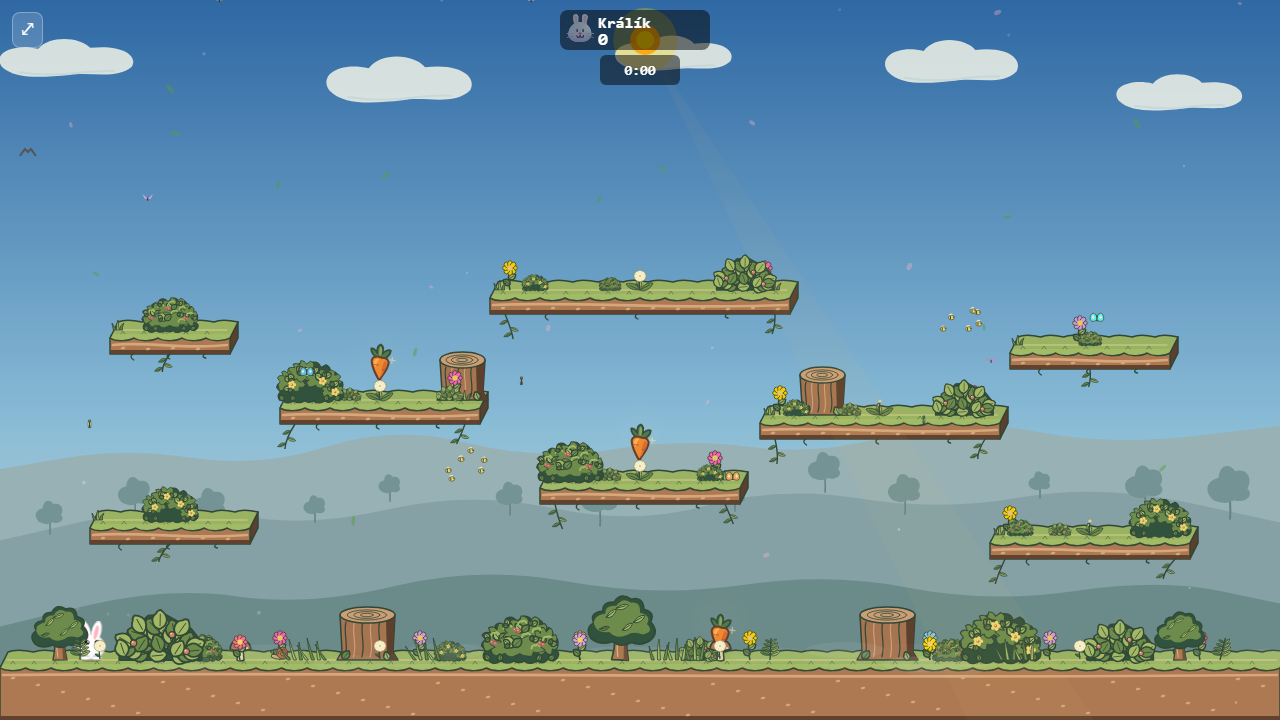
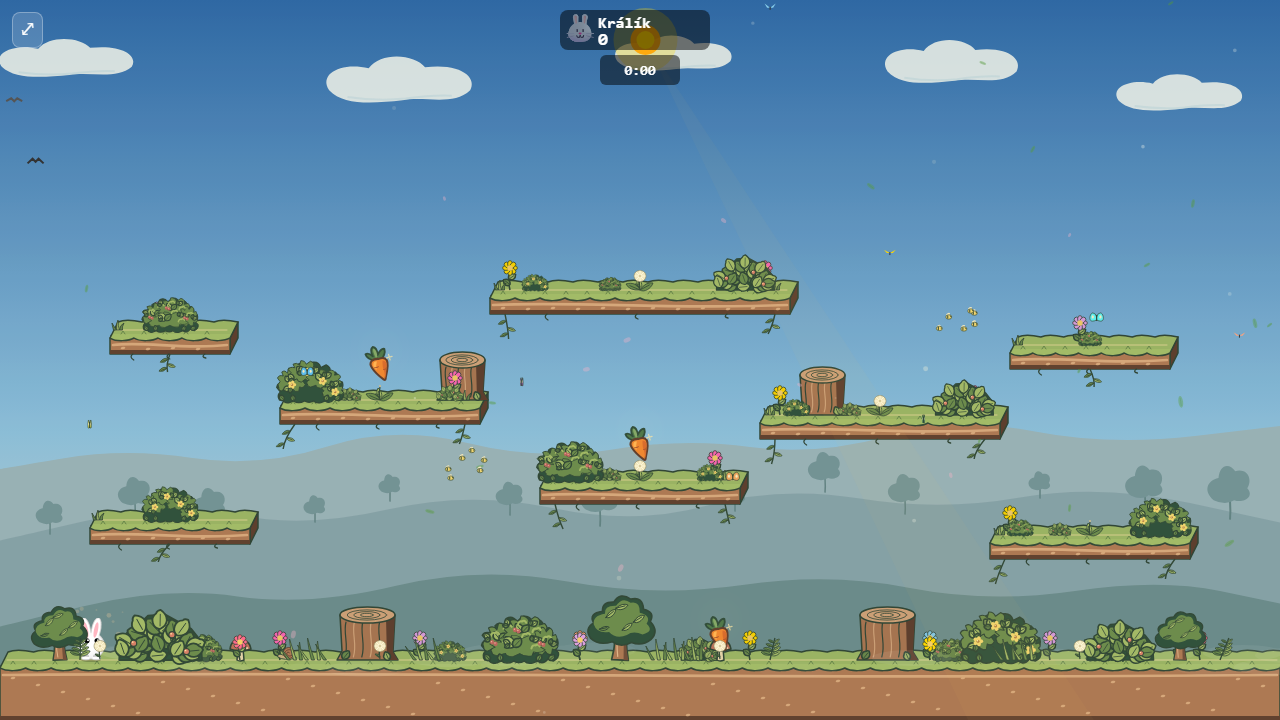
Add angled carrot pickup studies and tilt the prototype

diff --git a/src/engine/rendering/collectibles.ts b/src/engine/rendering/collectibles.ts
@@ -4,6 +4,7 @@ import type { ThemeConfig } from '../themes/types';
 import { CARROT_SIZE, SPRING_SIZE, HAZARD_GROW_TIME } from '../constants';
 
 const _hazardAnim = { growScale: 1, fadeAlpha: 1 };
+const CARROT_ART = { tilt: -0.28, width: 0.82, height: 0.82 } as const;
 function calcHazardAnim(growTimer: number, life: number) {
   _hazardAnim.growScale = growTimer > 0 ? 1 - (growTimer / HAZARD_GROW_TIME) : 1;
   _hazardAnim.fadeAlpha = life < 2 ? life / 2 : 1;
@@ -28,8 +29,8 @@ export function drawCarrot(ctx: Ctx2D, carrot: Carrot, timeElapsed: number, fram
   }
 
   ctx.translate(x, y + CARROT_SIZE / 2 + bob);
-  ctx.scale(0.82, 0.82);
-  ctx.rotate(0.12);
+  ctx.rotate(CARROT_ART.tilt);
+  ctx.scale(CARROT_ART.width, CARROT_ART.height);
   ctx.lineJoin = 'round';
   ctx.lineCap = 'round';
 

diff --git a/docs/mockups/carrot-pickup/README.md b/docs/mockups/carrot-pickup/README.md
@@ -1,6 +1,21 @@
-# Storybook carrot pickup
+# Storybook carrot pickup studies
 
-The shared carrot pickup now reads as a small rooted vegetable instead of a sideways orange oval. Its broader shoulders taper to a slightly uneven tip. Three connected leaves, a dark ink edge, two warm color planes, and sparse root creases follow the Meadow prop language. The bob, brief spawn ring, and single glint still distinguish it from static foliage.
+The shared carrot pickup now reads as a small rooted vegetable instead of a sideways orange oval. Its broader shoulders taper to a slightly uneven tip. Three connected leaves, a dark ink edge, two warm color planes, and sparse root creases follow the Meadow prop language. The bob, brief spawn ring, and single glint still distinguish it from static foliage. After the upright first pass, the four studies below vary the lean, body proportions, and pointing direction. **Gentle lean is only the provisional in-game setting while a direction is chosen.**
+
+## Angled variations
+
+Each crop comes from the actual Meadow renderer at game scale, not a full-size concept illustration. Click the day or night view to see how the same shape sits among platforms and foliage.
+
+| Variation | Match-scale crop | What it tests | Full scene |
+| --- | --- | --- | --- |
+| **A · Gentle lean** | <img src="gentle-lean-detail.png" width="200" alt="Gently angled carrot"> | Small tilt, balanced root and leaf mass. Closest to the upright redesign. | [Day](gentle-lean-day.png) · [Night](gentle-lean-night.png) |
+| **B · Chunky diagonal** | <img src="chunky-diagonal-detail.png" width="200" alt="Plump carrot angled down to the right"> | Broader shoulders, shorter root, and a clearer diagonal. Feels playful and substantial. | [Day](chunky-diagonal-day.png) · [Night](chunky-diagonal-night.png) |
+| **C · Long root** | <img src="long-root-detail.png" width="200" alt="Slender carrot angled down to the right"> | A narrower, longer taper with the most directional movement. Check whether the tip becomes too fine at small size. | [Day](long-root-day.png) · [Night](long-root-night.png) |
+| **D · Reverse lean** | <img src="reverse-lean-detail.png" width="200" alt="Carrot leaning in the opposite direction"> | Similar scale to A, but the leaves point right and the tip points left. Tests orientation separately from proportions. | [Day](reverse-lean-day.png) · [Night](reverse-lean-night.png) |
+
+The script in [`captureVariants.mjs`](captureVariants.mjs) temporarily applies each geometry setting, captures it in the game, then restores the source. The studies are comparison artifacts; only the provisional A setting is used by the current build.
+
+## Before and after
 
 | Current pickup | Storybook redesign |
 | --- | --- |

diff --git a/.claude/skills/visual-style/SKILL.md b/.claude/skills/visual-style/SKILL.md
@@ -30,7 +30,7 @@ For a new arena, choose a setting-specific palette and landmarks, then apply the
 
 ### Pickups must read as objects in motion
 
-Use the [carrot pickup comparison](../../../docs/mockups/carrot-pickup/README.md) when drawing small collectibles. At match scale, the carrot reads through broad orange shoulders, a tapered root, and leaves visibly attached to its crown; small stripes alone did not make the older sideways oval feel like a vegetable. A dark continuous edge and restrained light/dark planes separate it from nearby flowers and terrain. Keep the pickup's short spawn cue and gentle bob distinct from the static scenery, but avoid a blurred halo or a large effect that overwhelms the 32 px characters. Review the same pickup over different arena palettes and at night. Its artwork, particle cues, and visual bounds should support the existing collision target and foreground cover order; changing the art must not silently change collection behavior.
+Use the [carrot pickup comparison and angle studies](../../../docs/mockups/carrot-pickup/README.md) when drawing small collectibles. At match scale, the carrot reads through broad orange shoulders, a tapered root, and leaves visibly attached to its crown; small stripes alone did not make the older sideways oval feel like a vegetable. A fully upright root looked too much like a planted decoration, so compare gentle, chunky, and longer diagonal shapes inside the running arena before choosing a tilt. A dark continuous edge and restrained light/dark planes separate it from nearby flowers and terrain. Keep the pickup's short spawn cue and gentle bob distinct from the static scenery, but avoid a blurred halo or a large effect that overwhelms the 32 px characters. Review the same pickup over different arena palettes and at night. Its artwork, particle cues, and visual bounds should support the existing collision target and foreground cover order; changing the art must not silently change collection behavior.
 
 ## Backgrounds: contrast with characters
 
